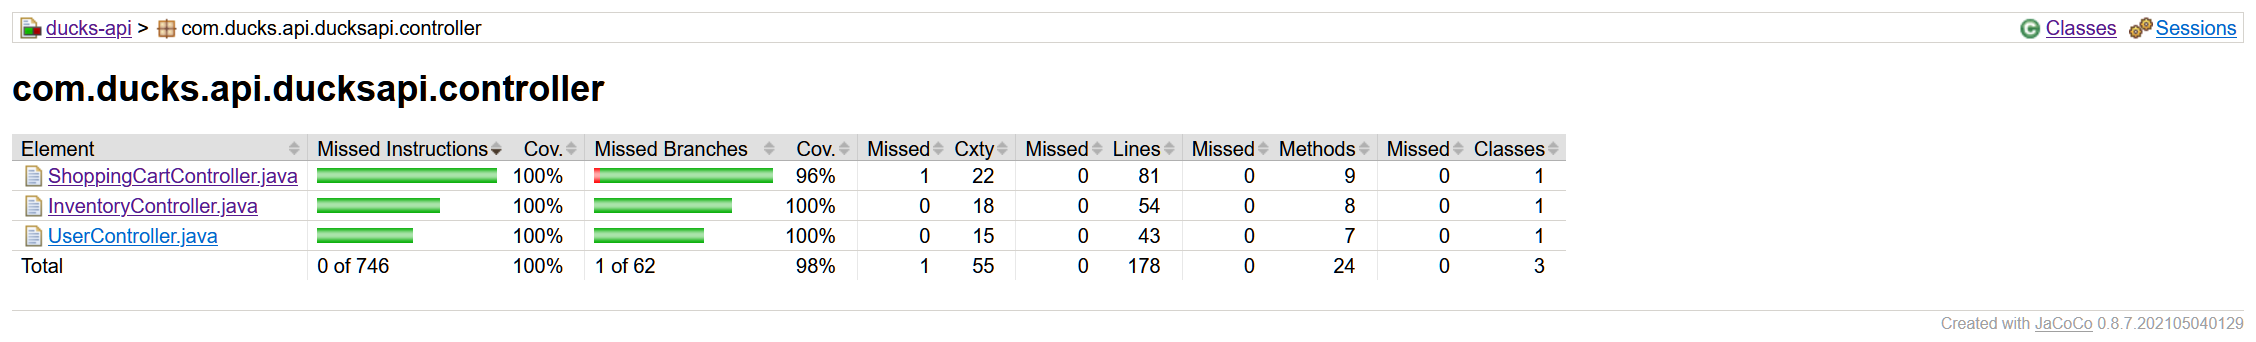
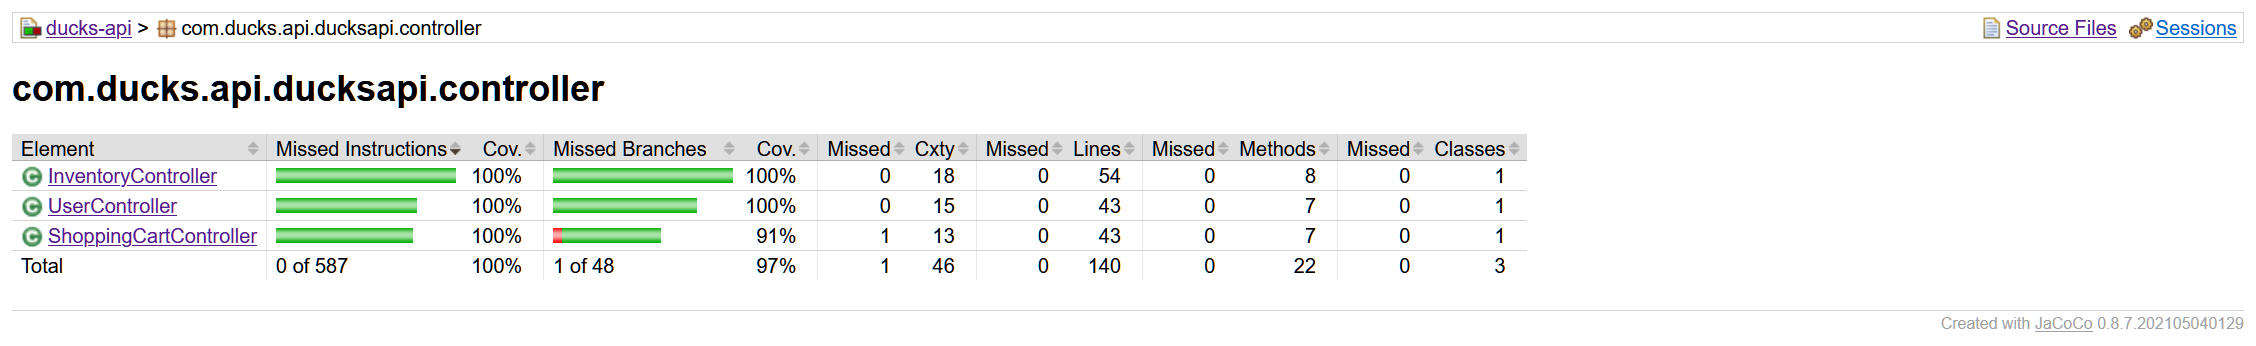
Removed price and invalidDuckId endpoints for ShoppingCartController

diff --git a/estore-api/src/test/java/com/ducks/api/ducksapi/controller/ShoppingCartControllerTest.java b/estore-api/src/test/java/com/ducks/api/ducksapi/controller/ShoppingCartControllerTest.java
@@ -8,7 +8,6 @@ import static org.mockito.Mockito.when;
 
 import java.io.IOException;
 import java.util.HashMap;
-import java.util.List;
 
 import org.junit.jupiter.api.BeforeEach;
 import org.junit.jupiter.api.Tag;
@@ -16,13 +15,7 @@ import org.junit.jupiter.api.Test;
 import org.springframework.http.HttpStatus;
 import org.springframework.http.ResponseEntity;
 
-import com.ducks.api.ducksapi.model.Colors;
-import com.ducks.api.ducksapi.model.Duck;
-import com.ducks.api.ducksapi.model.DuckOutfit;
 import com.ducks.api.ducksapi.model.ShoppingCart;
-import com.ducks.api.ducksapi.model.Size;
-import com.ducks.api.ducksapi.persistence.DuckDAO;
-import com.ducks.api.ducksapi.persistence.DuckFileDAO;
 import com.ducks.api.ducksapi.persistence.ShoppingCartDAO;
 
 /**
@@ -38,11 +31,7 @@ import com.ducks.api.ducksapi.persistence.ShoppingCartDAO;
 @Tag("Controller-tier")
 public class ShoppingCartControllerTest {
     private ShoppingCartDAO mockCartDAO;
-    private DuckDAO mockDuckDAO;
     private ShoppingCartController cartController;
-
-    private Duck duckOne;
-    private Duck duckTwo;
 
     /**
      * Before each test, create a new InventoryController object and inject
@@ -51,25 +40,7 @@ public class ShoppingCartControllerTest {
     @BeforeEach
     public void setupInventoryController() {
         mockCartDAO = mock(ShoppingCartDAO.class);
-        mockDuckDAO = mock(DuckFileDAO.class);
-        cartController = new ShoppingCartController(mockCartDAO, mockDuckDAO);
-
-        duckOne = new Duck(
-                1,
-                "Cool Duck",
-                10,
-                0.99,
-                Size.LARGE,
-                Colors.BLUE,
-                new DuckOutfit(0, 0, 0, 0, 0));
-        duckTwo = new Duck(
-                2,
-                "Cool Duck 2",
-                10,
-                1.99,
-                Size.LARGE,
-                Colors.BLUE,
-                new DuckOutfit(0, 0, 0, 0, 0));
+        cartController = new ShoppingCartController(mockCartDAO);
     }
 
     @Test
@@ -230,129 +201,6 @@ public class ShoppingCartControllerTest {
 
         // Analyze
         assertEquals(HttpStatus.INTERNAL_SERVER_ERROR, response.getStatusCode());
-    }
-
-    @Test
-    public void testGetShoppingCartPrice() throws IOException {
-        HashMap<String, Integer> items = new HashMap<>();
-        items.put("1", 10);
-        items.put("2", 20);
-
-        ShoppingCart cart = new ShoppingCart(0, items);
-        // When the same id is passed in, our mock Cart DAO will return the cart object
-        when(mockCartDAO.getShoppingCart(cart.getCustomerId())).thenReturn(cart);
-        when(mockDuckDAO.getDuck(1)).thenReturn(duckOne);
-        when(mockDuckDAO.getDuck(2)).thenReturn(duckTwo);
-
-        // Invoke
-        ResponseEntity<String> response = cartController.getShoppingCartPrice(cart.getCustomerId());
-        assertEquals(HttpStatus.OK, response.getStatusCode());
-        assertEquals("49.7", response.getBody());
-    }
-
-    @Test
-    public void testGetShoppingCartPriceInvalidDuck() throws IOException {
-        HashMap<String, Integer> items = new HashMap<>();
-        items.put("1", 10);
-        items.put("2", 20);
-
-        ShoppingCart cart = new ShoppingCart(0, items);
-        // When the same id is passed in, our mock Cart DAO will return the cart object
-        when(mockCartDAO.getShoppingCart(cart.getCustomerId())).thenReturn(cart);
-        when(mockDuckDAO.getDuck(1)).thenReturn(duckOne);
-        when(mockDuckDAO.getDuck(2)).thenReturn(null);
-
-        // Invoke
-        ResponseEntity<String> response = cartController.getShoppingCartPrice(cart.getCustomerId());
-        assertEquals(HttpStatus.BAD_REQUEST, response.getStatusCode());
-        assertNull(response.getBody());
-    }
-
-    @Test
-    public void testGetShoppingCartPriceNotFound() throws IOException {
-        int customerId = 0;
-        when(mockCartDAO.getShoppingCart(customerId)).thenReturn(null);
-
-        // Invoke
-        ResponseEntity<String> response = cartController.getShoppingCartPrice(customerId);
-        assertEquals(HttpStatus.NOT_FOUND, response.getStatusCode());
-        assertNull(response.getBody());
-    }
-
-    @Test
-    public void testGetShoppingCartPriceException() throws IOException {
-        int customerId = 0;
-
-        doThrow(new IOException()).when(mockCartDAO).getShoppingCart(customerId);
-
-        // Invoke
-        ResponseEntity<String> response = cartController.getShoppingCartPrice(customerId);
-
-        // Analyze
-        assertEquals(HttpStatus.INTERNAL_SERVER_ERROR, response.getStatusCode());
-        assertNull(response.getBody());
-    }
-
-    @Test
-    public void testGetShoppingCartInvalidDuckIds() throws IOException {
-        HashMap<String, Integer> items = new HashMap<>();
-        items.put("1", 10);
-        items.put("2", 20);
-        items.put("3", 20);
-
-        ShoppingCart cart = new ShoppingCart(0, items);
-        // When the same id is passed in, our mock Cart DAO will return the cart object
-        when(mockCartDAO.getShoppingCart(cart.getCustomerId())).thenReturn(cart);
-        when(mockDuckDAO.getDuck(1)).thenReturn(duckOne);
-        when(mockDuckDAO.getDuck(2)).thenReturn(null);
-
-        // Invoke
-        ResponseEntity<List<String>> response = cartController.getShoppingCartInvalidDuckIds(cart.getCustomerId());
-        assertEquals(HttpStatus.OK, response.getStatusCode());
-        assertEquals(List.of("2", "3"), response.getBody());
-    }
-
-    @Test
-    public void testGetShoppingCartInvalidDuckIdsNoInvalids() throws IOException {
-        HashMap<String, Integer> items = new HashMap<>();
-        items.put("1", 10);
-        items.put("2", 20);
-
-        ShoppingCart cart = new ShoppingCart(0, items);
-        // When the same id is passed in, our mock Cart DAO will return the cart object
-        when(mockCartDAO.getShoppingCart(cart.getCustomerId())).thenReturn(cart);
-        when(mockDuckDAO.getDuck(1)).thenReturn(duckOne);
-        when(mockDuckDAO.getDuck(2)).thenReturn(duckTwo);
-
-        // Invoke
-        ResponseEntity<List<String>> response = cartController.getShoppingCartInvalidDuckIds(cart.getCustomerId());
-        assertEquals(HttpStatus.NO_CONTENT, response.getStatusCode());
-        assertNull(response.getBody());
-    }
-
-    @Test
-    public void testGetShoppingCartInvalidDuckIdsNotFound() throws IOException {
-        int customerId = 0;
-        when(mockCartDAO.getShoppingCart(customerId)).thenReturn(null);
-
-        // Invoke
-        ResponseEntity<List<String>> response = cartController.getShoppingCartInvalidDuckIds(customerId);
-        assertEquals(HttpStatus.NOT_FOUND, response.getStatusCode());
-        assertNull(response.getBody());
-    }
-
-    @Test
-    public void testGetShoppingCartInvalidDuckIdsException() throws IOException {
-        int customerId = 0;
-
-        doThrow(new IOException()).when(mockCartDAO).getShoppingCart(customerId);
-
-        // Invoke
-        ResponseEntity<List<String>> response = cartController.getShoppingCartInvalidDuckIds(customerId);
-
-        // Analyze
-        assertEquals(HttpStatus.INTERNAL_SERVER_ERROR, response.getStatusCode());
-        assertNull(response.getBody());
     }
 
     @Test

diff --git a/estore-api/src/main/java/com/ducks/api/ducksapi/controller/ShoppingCartController.java b/estore-api/src/main/java/com/ducks/api/ducksapi/controller/ShoppingCartController.java
@@ -1,16 +1,8 @@
 package com.ducks.api.ducksapi.controller;
 
 import java.io.IOException;
-import java.text.DecimalFormat;
-import java.util.ArrayList;
-import java.util.List;
 import java.util.logging.Level;
 import java.util.logging.Logger;
-
-import com.ducks.api.ducksapi.model.Duck;
-import com.ducks.api.ducksapi.model.ShoppingCart;
-import com.ducks.api.ducksapi.persistence.DuckDAO;
-import com.ducks.api.ducksapi.persistence.ShoppingCartDAO;
 
 import org.springframework.http.HttpStatus;
 import org.springframework.http.ResponseEntity;
@@ -22,6 +14,9 @@ import org.springframework.web.bind.annotation.PutMapping;
 import org.springframework.web.bind.annotation.RequestBody;
 import org.springframework.web.bind.annotation.RequestMapping;
 import org.springframework.web.bind.annotation.RestController;
+
+import com.ducks.api.ducksapi.model.ShoppingCart;
+import com.ducks.api.ducksapi.persistence.ShoppingCartDAO;
 
 /**
  * Handles the REST API requests for the Shopping Cart resource
@@ -39,7 +34,6 @@ public class ShoppingCartController {
 
     private static final Logger LOG = Logger.getLogger(ShoppingCartController.class.getName());
     private ShoppingCartDAO cartDao;
-    private DuckDAO duckDAO;
 
     /**
      * Creates a REST API controller to reponds to shopping cart requests
@@ -48,9 +42,8 @@ public class ShoppingCartController {
      *                CRUD operations<br>
      *                This dependency is injected by the Spring Framework
      */
-    public ShoppingCartController(ShoppingCartDAO cartDao, DuckDAO duckDAO) {
+    public ShoppingCartController(ShoppingCartDAO cartDao) {
         this.cartDao = cartDao;
-        this.duckDAO = duckDAO;
     }
 
     /**
@@ -100,95 +93,6 @@ public class ShoppingCartController {
             }
 
             return new ResponseEntity<>(HttpStatus.NO_CONTENT);
-        } catch (IOException ioe) {
-            LOG.log(Level.SEVERE, ioe.getLocalizedMessage());
-            return new ResponseEntity<>(HttpStatus.INTERNAL_SERVER_ERROR);
-        }
-    }
-
-    /**
-     * Retrieves a {@link ShoppingCart cart}'s price
-     * 
-     * @param id The id of the cart
-     * @return 200 + String, if the cart is found and has no invalid ducks
-     *         400, if the cart contains a bad duck id.
-     *         404, if the cart is not found
-     *         500, if there's an issue with serialization/deserialization
-     */
-    @GetMapping("/{id}/price")
-    public ResponseEntity<String> getShoppingCartPrice(@PathVariable int id) {
-        LOG.info("GET /cart/" + id + "/price");
-        try {
-            ShoppingCart cart = cartDao.getShoppingCart(id);
-            if (cart == null) {
-                return new ResponseEntity<>(HttpStatus.NOT_FOUND);
-            }
-
-            double total = 0.0;
-
-            // Used to add the item prices up
-            for (String duckIdStr : cart.getItems()) {
-                int duckId = Integer.parseInt(duckIdStr);
-
-                Duck duck = duckDAO.getDuck(duckId);
-                if (duck == null) {
-                    // Called if a duck no longer exists in inventory
-                    return new ResponseEntity<>(HttpStatus.BAD_REQUEST);
-                }
-
-                int quantity = cart.getItemAmount(duckId);
-                double price = quantity * duck.getPrice();
-
-                total += price;
-            }
-
-            // Used to round the double to two decimal places (rounds upward)
-            DecimalFormat format = new DecimalFormat(".##");
-            return new ResponseEntity<String>(format.format(total), HttpStatus.OK);
-
-        } catch (IOException ioe) {
-            LOG.log(Level.SEVERE, ioe.getLocalizedMessage());
-            return new ResponseEntity<>(HttpStatus.INTERNAL_SERVER_ERROR);
-        }
-    }
-
-    /**
-     * Retrieves a {@link ShoppingCart cart}'s invalid duck ids
-     * 
-     * @param id The id of the cart
-     * @return 200 + List<String>, if the cart is found and has invalid duck ids
-     *         204, if the cart is found and has no invalid duck ids
-     *         404, if the cart is not found
-     *         500, if there's an issue with serialization/deserialization
-     */
-    @GetMapping("/{id}/invalidDuckIds")
-    public ResponseEntity<List<String>> getShoppingCartInvalidDuckIds(@PathVariable int id) {
-        LOG.info("GET /cart/" + id + "/invalidDuckIds");
-        try {
-            ShoppingCart cart = cartDao.getShoppingCart(id);
-
-            if (cart == null) {
-                return new ResponseEntity<>(HttpStatus.NOT_FOUND);
-            }
-
-            List<String> badIds = new ArrayList<>();
-
-            // Loops through items to collect all invalid duck ids
-            for (String duckIdStr : cart.getItems()) {
-                int duckId = Integer.parseInt(duckIdStr);
-
-                Duck duck = duckDAO.getDuck(duckId);
-                if (duck != null) {
-                    continue;
-                }
-
-                badIds.add(duckIdStr);
-            }
-
-            if (badIds.size() == 0) {
-                return new ResponseEntity<>(HttpStatus.NO_CONTENT);
-            }
-            return new ResponseEntity<List<String>>(badIds, HttpStatus.OK);
         } catch (IOException ioe) {
             LOG.log(Level.SEVERE, ioe.getLocalizedMessage());
             return new ResponseEntity<>(HttpStatus.INTERNAL_SERVER_ERROR);

diff --git a/estore-api/src/test/java/com/ducks/api/ducksapi/model/DuckTest.java b/estore-api/src/test/java/com/ducks/api/ducksapi/model/DuckTest.java
@@ -17,7 +17,6 @@ import org.junit.jupiter.api.Test;
 public class DuckTest {
 
     private Duck testDuck;
-    private Duck testDuckTwo;
 
     @BeforeEach
     public void setupDuckTest() {
@@ -36,14 +35,10 @@ public class DuckTest {
         DuckOutfit outfitOne = new DuckOutfit(expected_hat_uid, expected_shirt_uid, expected_shoes_uid,
                 expected_handitem_uid, expected_jewelry_uid);
 
-        DuckOutfit outfitTwo = new DuckOutfit(expected_hat_uid, expected_shirt_uid, expected_shoes_uid,
-                expected_handitem_uid, expected_jewelry_uid);
         // Invoke
         testDuck = new Duck(expected_id, expected_name, expected_quantity, expected_price, expected_size,
                 expected_color, outfitOne);
 
-        testDuckTwo = new Duck(expected_id, expected_name, expected_quantity, expected_price, expected_size,
-                expected_color, outfitTwo);
     }
 
     @Test
